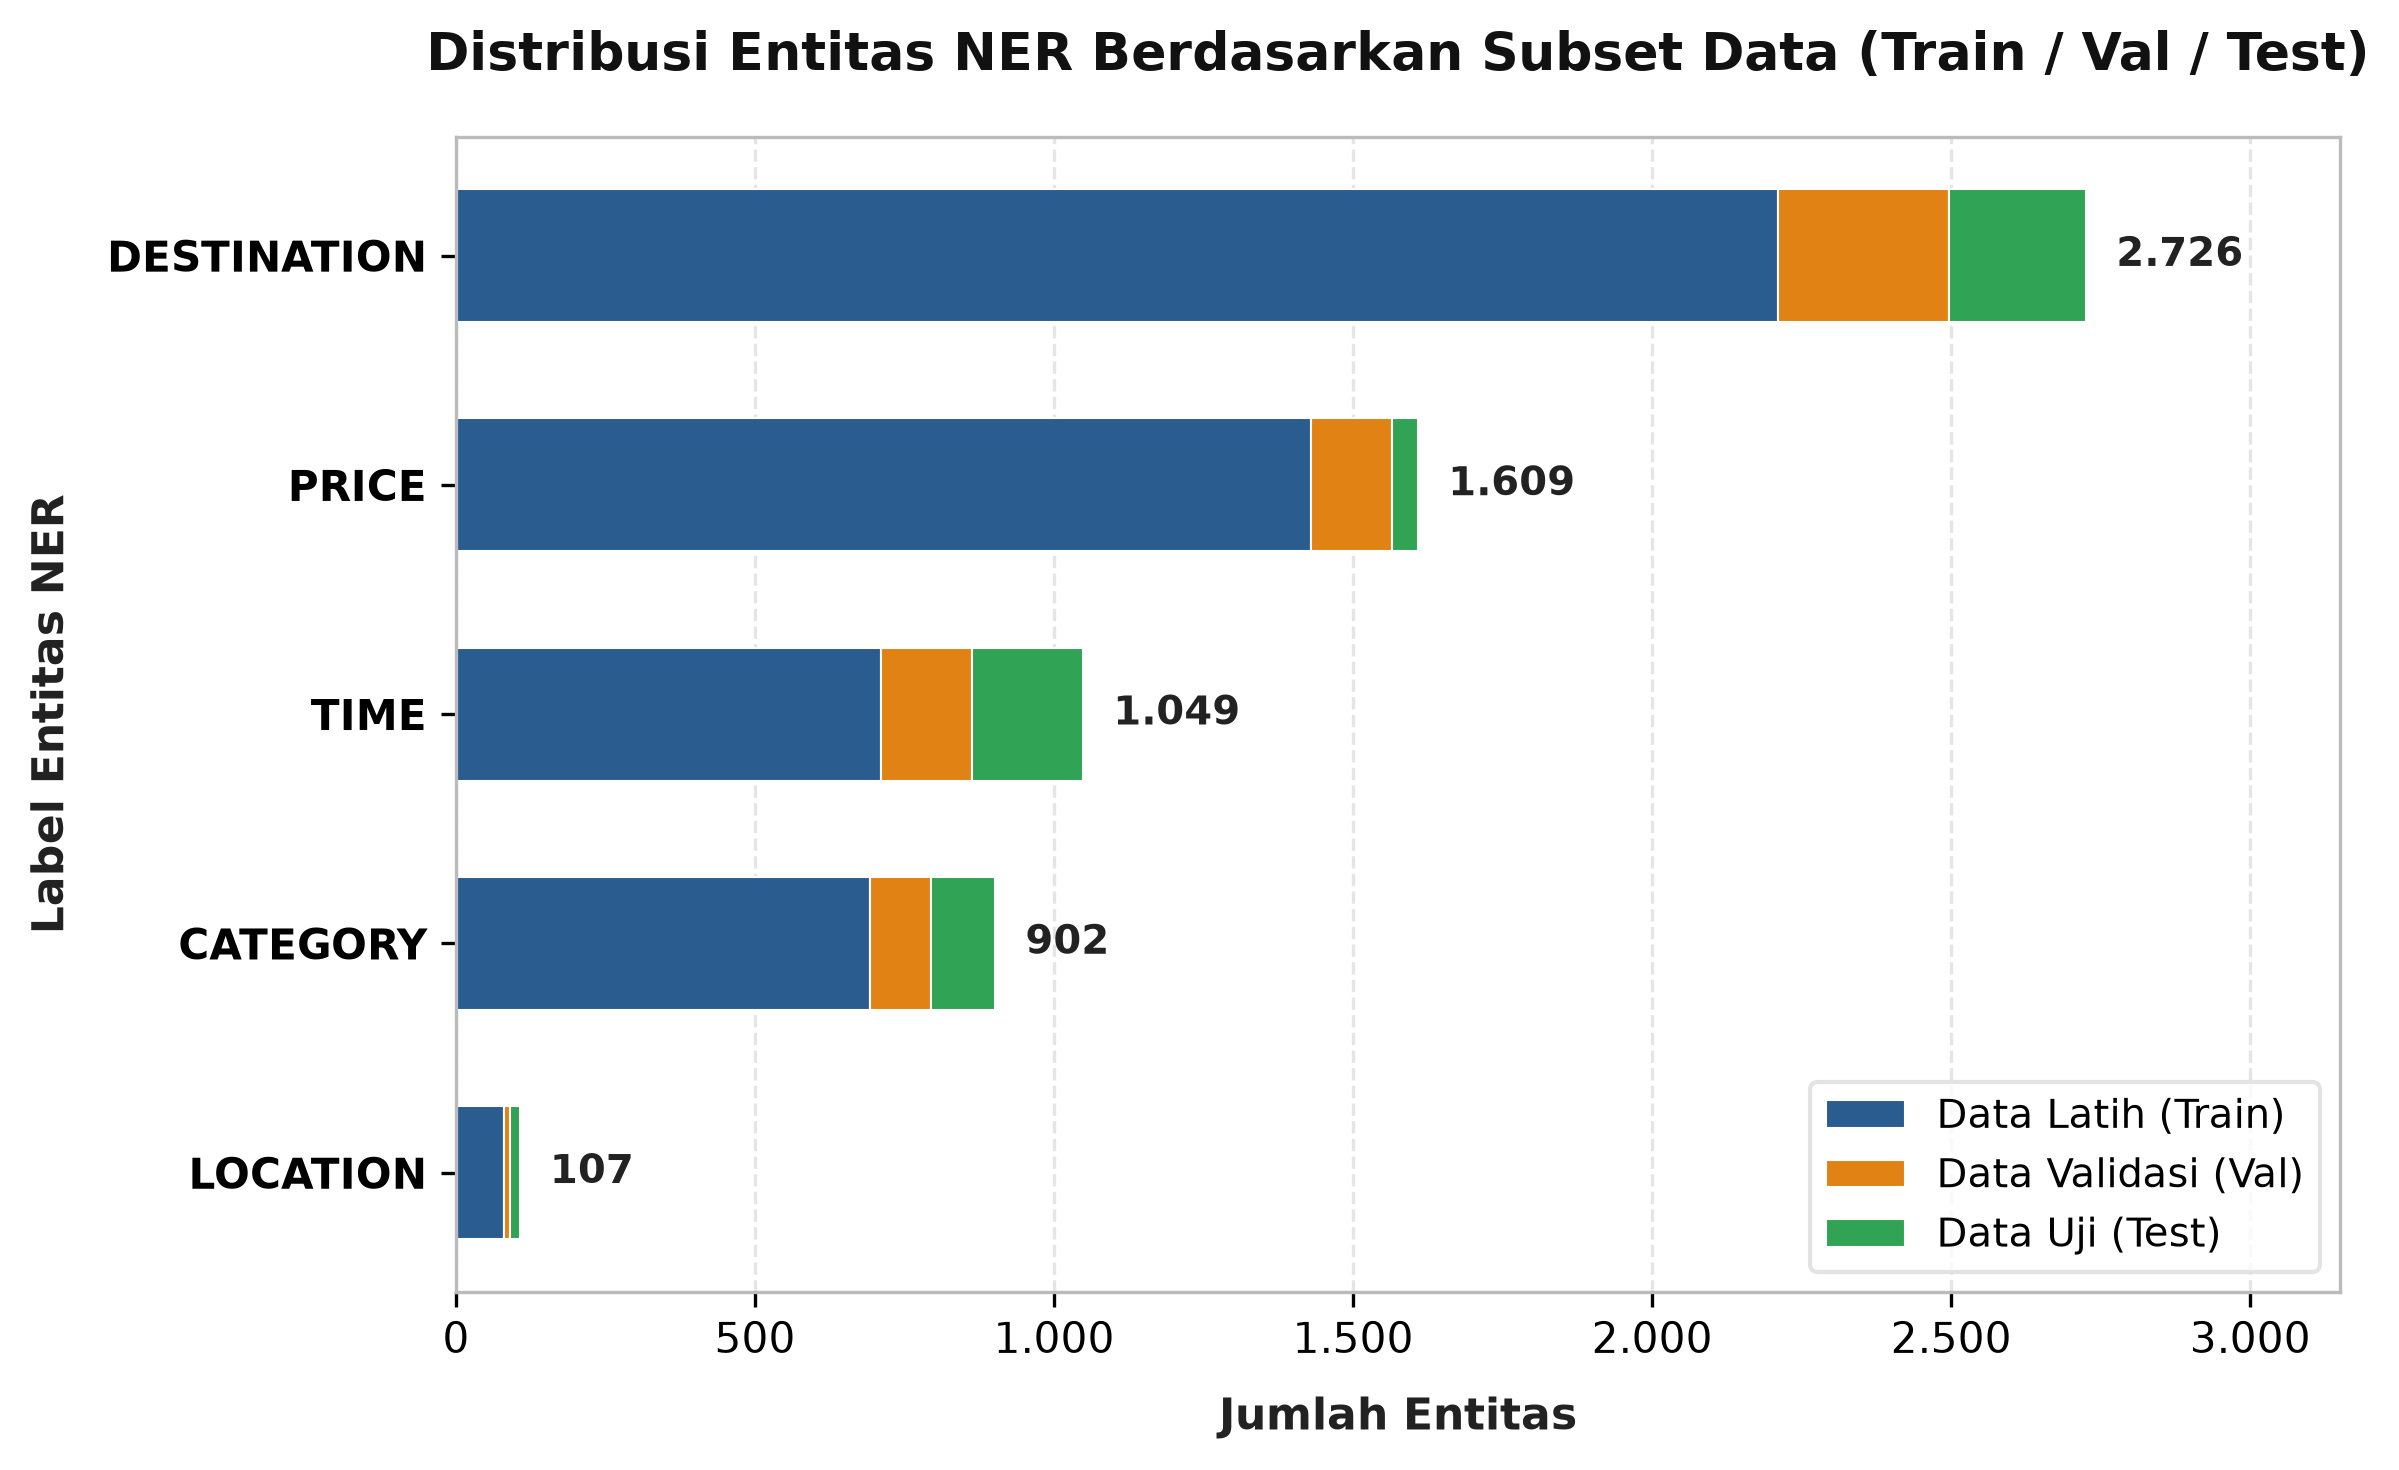
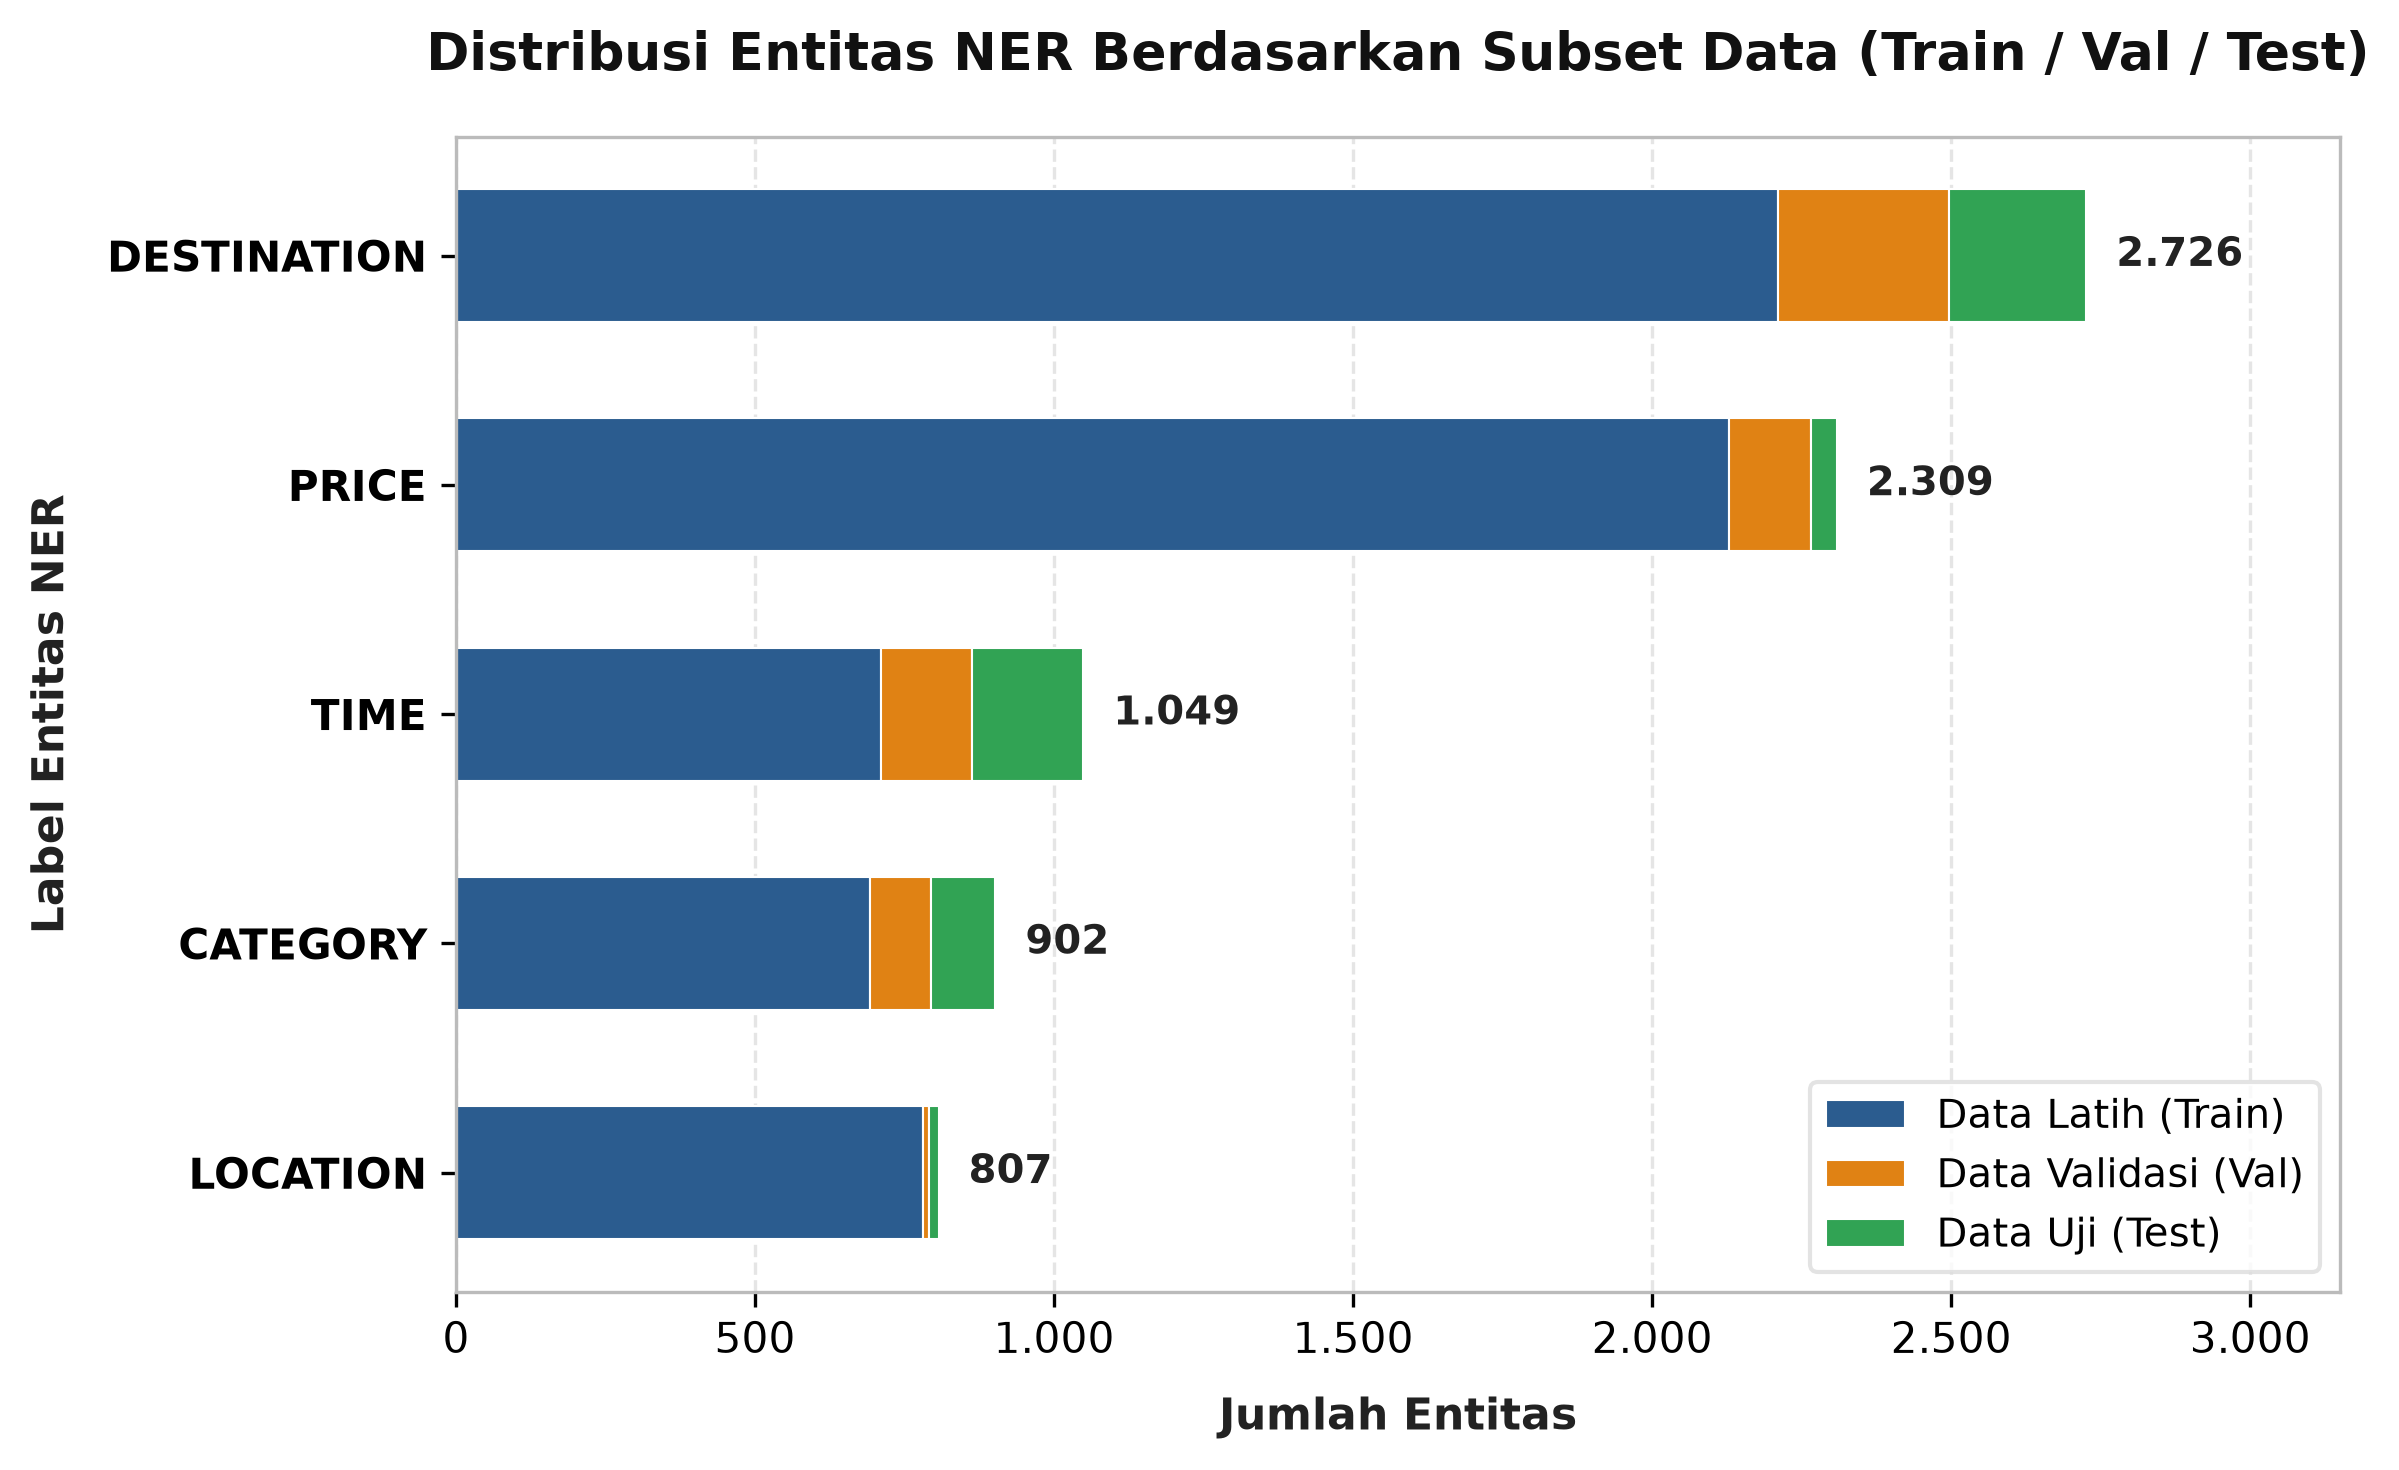
feat: update NER distribution table & stacked chart for latest augmented dataset

Changed region(s): [[0.5244, 0.2755, 0.8328, 0.398], [0.1851, 0.7347, 0.4318, 0.8571]]

diff --git a/ml/data/plot_ner_distribution.py b/ml/data/plot_ner_distribution.py
@@ -1,5 +1,5 @@
 """
-plot_ner_distribution.py — Script visualisasi distribusi entitas dataset NER (Legacy/V2)
+plot_ner_distribution.py — Script visualisasi distribusi entitas dataset NER (Stage 1 / Augmentasi Terbaru)
 Menghasilkan dua grafik profesional berstandar skripsi:
 1. gambar_ner_total.png   : Bar chart horizontal total entitas per label (terurut dari terbesar)
 2. gambar_ner_stacked.png : Stacked horizontal bar chart (Train / Val / Test)
@@ -16,7 +16,7 @@ from collections import Counter
 # ============================================================
 # 1. KONFIGURASI PATH & TARGET ENTITAS
 # ============================================================
-TRAIN_PATH = "ml/data/processed/train_ner_legacy.json"
+TRAIN_PATH = "ml/data/processed/train_ner_aug.json"
 VAL_PATH   = "ml/data/processed/val_ner_legacy.json"
 TEST_PATH  = "ml/data/processed/test_ner_legacy_583.json"
 
@@ -25,15 +25,15 @@ os.makedirs(OUTPUT_DIR, exist_ok=True)
 
 TARGET_ENTITIES = ["DESTINATION", "PRICE", "TIME", "CATEGORY", "LOCATION"]
 
-# Benchmark Acuan Resmi Skripsi (Train / Val / Test / Total)
+# Benchmark Acuan Dataset NER Terbaru (Train Aug / Val / Test / Total)
 BENCHMARK = {
     "DESTINATION": (2211, 286, 229, 2726),
+    "PRICE":       (2129, 136, 44,  2309),
     "TIME":        (711,  151, 187, 1049),
     "CATEGORY":    (692,  103, 107, 902),
-    "PRICE":       (1429, 136, 44,  1609),
-    "LOCATION":    (80,   11,  16,  107),
+    "LOCATION":    (780,  11,  16,  807),
 }
-BENCHMARK_TOTAL = (5123, 687, 583, 6393)
+BENCHMARK_TOTAL = (6523, 687, 583, 7793)
 
 
 # ============================================================
@@ -51,7 +51,6 @@ def extract_entity_counts(file_path):
     total_tokens = 0
 
     for item in data:
-        # Deteksi field tags secara otomatis
         tags = None
         for key in ["tags", "ner_tags", "labels"]:
             if key in item:
@@ -61,7 +60,6 @@ def extract_entity_counts(file_path):
         if tags is None:
             continue
 
-        # Deteksi field tokens
         tokens = None
         for key in ["tokens", "words", "text"]:
             if key in item:
@@ -70,7 +68,6 @@ def extract_entity_counts(file_path):
         if tokens:
             total_tokens += len(tokens)
 
-        # Hitung entitas berdasarkan tag B-
         for tag in tags:
             tag_str = str(tag)
             if tag_str.startswith("B-"):
@@ -88,7 +85,7 @@ val_counts, val_sents, val_tokens       = extract_entity_counts(VAL_PATH)
 test_counts, test_sents, test_tokens    = extract_entity_counts(TEST_PATH)
 
 print("=" * 70)
-print("🔍 TABEL VERIFIKASI DISTRIBUSI ENTITAS DATASET NER (LEGACY/V2)")
+print("🔍 TABEL VERIFIKASI DISTRIBUSI ENTITAS DATASET NER (TERBARU / AUG)")
 print("=" * 70)
 print(f"{'Label Entitas':<15} | {'Train':<7} | {'Val':<7} | {'Test':<7} | {'Total':<7} | {'Status':<10}")
 print("-" * 70)
@@ -102,7 +99,6 @@ for ent in ["DESTINATION", "PRICE", "TIME", "CATEGORY", "LOCATION"]:
     te = test_counts.get(ent, 0)
     tot = tr + va + te
 
-    # Cek terhadap benchmark
     b_tr, b_va, b_te, b_tot = BENCHMARK[ent]
     is_match = (tr == b_tr and va == b_va and te == b_te and tot == b_tot)
     if not is_match:
@@ -152,7 +148,7 @@ plt.rcParams['axes.linewidth'] = 0.8
 
 df = pd.DataFrame(summary_data)
 # Urutkan dari terbesar ke terkecil untuk Total
-df_sorted = df.sort_values(by="Total", ascending=True)  # ascending=True agar di barh nilai terbesar ada di atas
+df_sorted = df.sort_values(by="Total", ascending=True)
 
 
 # ============================================================
@@ -160,7 +156,6 @@ df_sorted = df.sort_values(by="Total", ascending=True)  # ascending=True agar di
 # ============================================================
 fig1, ax1 = plt.subplots(figsize=(8, 5), dpi=300)
 
-# Warna elegan biru netral
 bar_color = "#2b5c8f"
 edge_color = "#1d3e60"
 
@@ -173,11 +168,9 @@ bars1 = ax1.barh(
     linewidth=0.8
 )
 
-# Format grid tipis sumbu-x
 ax1.grid(axis="x", linestyle="--", alpha=0.5, color="#cccccc")
 ax1.set_axisbelow(True)
 
-# Label angka di ujung batang dengan pemisah ribuan titik (contoh: 2.726)
 for bar in bars1:
     width = bar.get_width()
     formatted_num = f"{int(width):,}".replace(",", ".")
@@ -192,12 +185,11 @@ for bar in bars1:
         color="#222222"
     )
 
-ax1.set_title("Distribusi Jumlah Entitas per Label NER", fontsize=13, fontweight="bold", pad=16, color="#111111")
+ax1.set_title("Distribusi Jumlah Entitas per Label NER (Dataset Final)", fontsize=13, fontweight="bold", pad=16, color="#111111")
 ax1.set_xlabel("Jumlah Entitas", fontsize=10.5, fontweight="bold", labelpad=8, color="#222222")
 ax1.set_ylabel("Label Entitas NER", fontsize=10.5, fontweight="bold", labelpad=8, color="#222222")
 ax1.set_xlim(0, 3150)
 
-# Format ticks ribuan pada sumbu x
 ax1.xaxis.set_major_formatter(plt.FuncFormatter(lambda x, p: f"{int(x):,}".replace(",", ".")))
 plt.tight_layout()
 
@@ -215,23 +207,19 @@ fig2, ax2 = plt.subplots(figsize=(8, 5), dpi=300)
 y_pos = np.arange(len(df_sorted))
 height = 0.58
 
-# Palet warna profesional: Train (Steel Blue), Val (Amber/Orange), Test (Sea Green)
 color_train = "#2b5c8f"
 color_val   = "#e08214"
 color_test  = "#31a354"
 
-# Plot segmen bertumpuk
 b_train = ax2.barh(y_pos, df_sorted["Train"], height=height, label="Data Latih (Train)", color=color_train, edgecolor="#ffffff", linewidth=0.5)
 b_val   = ax2.barh(y_pos, df_sorted["Val"], left=df_sorted["Train"], height=height, label="Data Validasi (Val)", color=color_val, edgecolor="#ffffff", linewidth=0.5)
 b_test  = ax2.barh(y_pos, df_sorted["Test"], left=df_sorted["Train"] + df_sorted["Val"], height=height, label="Data Uji (Test)", color=color_test, edgecolor="#ffffff", linewidth=0.5)
 
-# Grid & Spacing
 ax2.grid(axis="x", linestyle="--", alpha=0.5, color="#cccccc")
 ax2.set_axisbelow(True)
 ax2.set_yticks(y_pos)
 ax2.set_yticklabels(df_sorted["Label"], fontsize=10, fontweight="bold")
 
-# Label total angka di ujung bar
 for i, total_val in enumerate(df_sorted["Total"]):
     formatted_num = f"{int(total_val):,}".replace(",", ".")
     ax2.text(
@@ -251,7 +239,6 @@ ax2.set_ylabel("Label Entitas NER", fontsize=10.5, fontweight="bold", labelpad=8
 ax2.set_xlim(0, 3150)
 ax2.xaxis.set_major_formatter(plt.FuncFormatter(lambda x, p: f"{int(x):,}".replace(",", ".")))
 
-# Legenda di posisi optimal
 ax2.legend(loc="lower right", frameon=True, facecolor="#ffffff", edgecolor="#dddddd", fontsize=9.5)
 plt.tight_layout()
 
